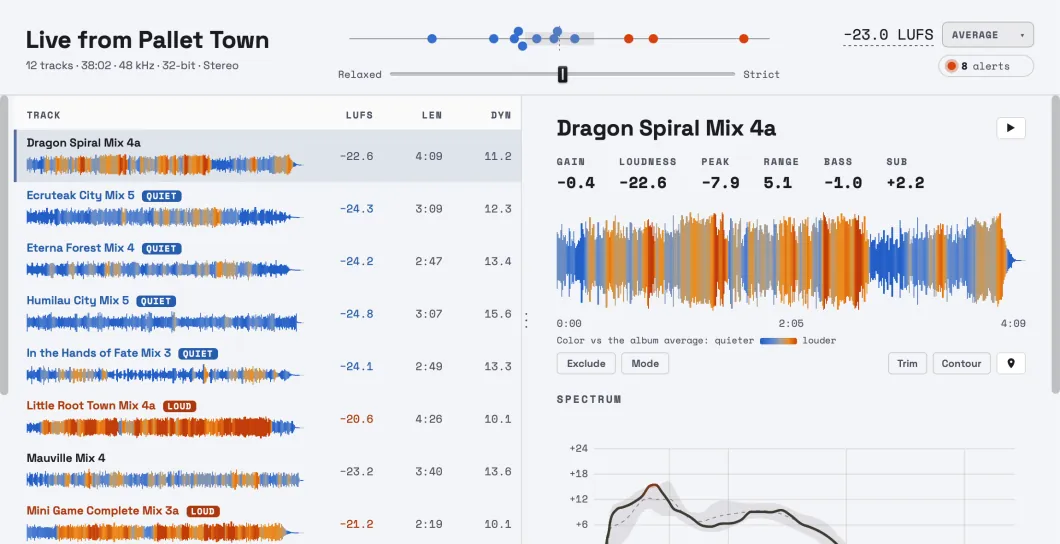
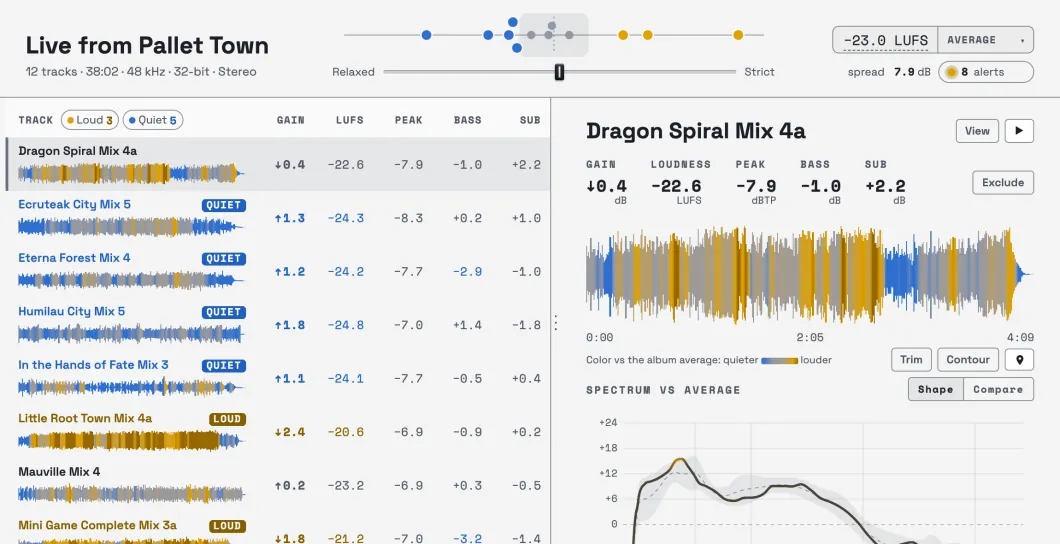
site: 1.0.3 (download links, version, Release Notes, palette screenshots retaken on 1.0.3, Color-blind chip)

diff --git a/releases.html b/releases.html
@@ -49,6 +49,28 @@
     <p class="eyebrow">RELEASE NOTES</p>
     <h1>What's new</h1>
 
+    <h2 id="v1.0.3">1.0.3</h2>
+    <p class="micro legal-date">25 November 2026</p>
+    <p>Hot Spotter 1.0.3 for Mac and Windows. Easier to read, alerts you can tell apart, and a simpler first screen.</p>
+    <ul>
+      <li><strong>A simpler first screen.</strong> Drop an album anywhere on it, or use Analyze Folder… and Analyze Files…. Your audio files are never changed.</li>
+      <li><strong>Recent albums.</strong> Analyze ▾ → Recent lists your last 10 albums. Click one to analyze it again.</li>
+      <li><strong>Easier to read.</strong> Bigger text, plainer type for sentences, bigger click areas on small controls, and tooltips when you move through the app with the keyboard.</li>
+      <li><strong>Alerts you can tell apart.</strong> Clip now has its own square mark, and Loud and Quiet stay round. The Overview gives its counts once, in one line (“2 loud”, “3 quiet”, “2 clip”). Click a count to show only those tracks. If tracks changed since your last mix, the line says how many. Click it to see what changed.</li>
+      <li><strong>Ignored clips stay in view.</strong> They turn gray instead of disappearing, and they stay under Clip with a hollow mark.</li>
+      <li><strong>Color-blind palette.</strong> The Accessible colors were rebuilt for color-blind eyes and renamed Color-blind: amber for loud, blue for quiet, gray for in range, red-orange for clip.</li>
+      <li><strong>Track Details puts the answer first.</strong> The track's suggestion sits right under its name, and each control sits beside what it changes, so the Spectrum sits higher. The Spectrum has its title back, with a Shape | Compare switch.</li>
+      <li><strong>Exclude is an A/B switch.</strong> On the Overview, turn it off to see the album with every track counted, and on again to bring your exclusions back.</li>
+      <li><strong>References compare everything.</strong> Picking a Reference turns on both loudness and Spectrum comparing. Going back to Album average turns both off.</li>
+      <li><strong>Long names read better.</strong> They shorten in the middle, not at the end, so two names that differ only at the end look different. Hover one to see it whole. In a wide window the tracklist grows so names show in full.</li>
+      <li><strong>Mark a value as seen.</strong> Click a colored Gain, Bass or Sub value in Track Details and it stops being highlighted until you quit. Bass and Sub are now colored in the tracklist too.</li>
+      <li><strong>Spot Markers.</strong> Click the Spectrum to mark a frequency. S always marks the timeline. Only a marker's dot opens its note or drags it.</li>
+      <li><strong>What the Readings Mean</strong> shows each reading next to a picture of it in the app.</li>
+      <li>Screen readers get headings and landmarks, and the tracklist is one Tab stop (use the arrow keys inside it). Windows High Contrast keeps the loudness bars, alert dots and Gain arrows.</li>
+      <li>The Spot Report counts tracks with an alert, like the header: a track that runs loud and clips counts once.</li>
+      <li>Fixes: help windows open at their normal size on every screen, the header no longer moves while you rename the album, and the header is calmer.</li>
+    </ul>
+
     <h2 id="v1.0.2">1.0.2</h2>
     <p class="micro legal-date">11 November 2026</p>
     <p>Hot Spotter 1.0.2 for Mac and Windows.</p>

diff --git a/index.html b/index.html
@@ -67,7 +67,7 @@
       "applicationCategory": "MultimediaApplication",
       "applicationSubCategory": "Album loudness meter",
       "operatingSystem": "macOS 13 or later, Windows 10 or 11",
-      "softwareVersion": "1.0.2",
+      "softwareVersion": "1.0.3",
       "downloadUrl": "https://hotspotter.studio/download.html",
       "releaseNotes": "https://hotspotter.studio/releases.html",
       "image": "https://hotspotter.studio/img/og-image.png",
@@ -214,7 +214,7 @@
       <img src="img/app-icon.png" alt="" width="24" height="24" decoding="async">
       <span class="wordmark-name">Hot Spotter</span>
       <!-- version: the latest PUBLIC release (github.com/soundovision/hotspotter/releases), not the working tree; hand-synced with the schema.org softwareVersion above -->
-      <span class="ver">v1.0.2</span>
+      <span class="ver">v1.0.3</span>
     </a>
     <nav class="head-nav" aria-label="Primary">
       <a class="navlink" href="#features">Features</a>
@@ -434,7 +434,7 @@
             <button type="button" class="pal-chip" data-pal="royal" aria-pressed="false"><span class="pal-sw" aria-hidden="true"></span>Royal</button>
             <button type="button" class="pal-chip" data-pal="mono" aria-pressed="false"><span class="pal-sw" aria-hidden="true"></span>Mono</button>
             <button type="button" class="pal-chip" data-pal="quiet" aria-pressed="false"><span class="pal-sw" aria-hidden="true"></span>Slate</button>
-            <button type="button" class="pal-chip" data-pal="cvd" aria-pressed="false"><span class="pal-sw" aria-hidden="true"></span>Accessible</button>
+            <button type="button" class="pal-chip" data-pal="cvd" aria-pressed="false"><span class="pal-sw" aria-hidden="true"></span>Color-blind</button>
           </div>
           <div class="pal-theme" role="group" aria-label="App theme">
             <button type="button" class="pal-chip on" data-theme="dark" aria-pressed="true">Dark</button>
@@ -679,7 +679,9 @@
     else if (pal === 'quiet') stops = light
       ? [[-3.2,[140,146,164]],[3.2,[102,109,127]]]
       : [[-3.2,[70,78,100]],[3.2,[112,122,148]]];
-    else if (pal === 'cvd') { stops = [[-3.2,[47,111,196]],[-1.2,[118,152,203]],[0.3,[186,180,168]],[1.8,[228,155,58]],[3.2,[186,66,14]]]; dim = light ? 0.88 : 1; }
+    else if (pal === 'cvd') stops = light
+      ? [[-3.2,[47,111,208]],[-1.3,[146,152,165]],[0.6,[166,156,141]],[2.2,[224,161,0]],[3.2,[150,104,0]]]
+      : [[-3.2,[74,143,224]],[-1.3,[169,173,182]],[0.6,[190,180,162]],[2.2,[255,198,74]],[3.2,[255,233,181]]];
     else { stops = [[-3.2,[91,155,217]],[-1.3,[88,178,110]],[0.6,[124,191,114]],[2.2,[224,168,60]],[3.2,[216,75,64]]]; dim = light ? 0.88 : 1; }
     var v = Math.max(-3.2, Math.min(3.2, dev));
     var a = stops[0], b = stops[stops.length - 1];

diff --git a/download.html b/download.html
@@ -55,13 +55,13 @@
       <p class="eyebrow">DOWNLOAD</p>
       <h1>Download Hot Spotter</h1>
       <!-- version/date/sizes: the latest PUBLIC release (github.com/soundovision/hotspotter/releases). Hand-synced here; the script at the bottom refreshes them from the GitHub API when it can. -->
-      <p class="dl-ver micro">Version <span data-rel="version">1.0.2</span> · <span data-rel="date">11 November 2026</span></p>
+      <p class="dl-ver micro">Version <span data-rel="version">1.0.3</span> · <span data-rel="date">25 November 2026</span></p>
 
       <ul class="dl-list">
         <li class="dl-row" data-asset="_universal.dmg">
           <svg class="dl-os" viewBox="0 0 24 24" aria-hidden="true"><path fill="currentColor" d="M16.4 12.7c0-2.6 2.1-3.8 2.2-3.9-1.2-1.8-3.1-2-3.7-2-1.6-.2-3.1.9-3.9.9-.8 0-2-.9-3.4-.9-1.7 0-3.3 1-4.2 2.6-1.8 3.1-.5 7.8 1.3 10.3.9 1.2 1.9 2.6 3.2 2.6 1.3-.1 1.8-.8 3.4-.8 1.6 0 2 .8 3.4.8 1.4 0 2.3-1.3 3.1-2.5 1-1.4 1.4-2.8 1.4-2.9-.1 0-2.8-1.1-2.8-4.2zM13.9 5.1c.7-.9 1.2-2.1 1.1-3.3-1 0-2.3.7-3 1.6-.7.8-1.3 2-1.1 3.2 1.1.1 2.3-.6 3-1.5z"/></svg>
           <div>
-            <a class="dl-link" href="https://github.com/soundovision/hotspotter/releases/download/v1.0.2/HotSpotter_1.0.2_universal.dmg" rel="noopener">Download for macOS</a>
+            <a class="dl-link" href="https://github.com/soundovision/hotspotter/releases/download/v1.0.3/HotSpotter_1.0.3_universal.dmg" rel="noopener">Download for macOS</a>
             <span class="dl-size micro">(<span data-rel="size">11.8 MB</span>)</span>
             <p class="dl-sub">Universal app for Apple Silicon and Intel · macOS 13 Ventura or later</p>
           </div>
@@ -69,7 +69,7 @@
         <li class="dl-row" data-asset="_x64-setup.exe">
           <svg class="dl-os" viewBox="0 0 24 24" aria-hidden="true"><path fill="currentColor" d="M3 5.5 11 4.4v7.2H3V5.5zm9-1.3L21 3v8.6h-9V4.2zM3 12.4h8v7.2L3 18.5v-6.1zm9 0h9V21l-9-1.3v-7.3z"/></svg>
           <div>
-            <a class="dl-link" href="https://github.com/soundovision/hotspotter/releases/download/v1.0.2/HotSpotter_1.0.2_x64-setup.exe" rel="noopener">Download for Windows</a>
+            <a class="dl-link" href="https://github.com/soundovision/hotspotter/releases/download/v1.0.3/HotSpotter_1.0.3_x64-setup.exe" rel="noopener">Download for Windows</a>
             <span class="dl-size micro">(<span data-rel="size">4.8 MB</span>)</span>
             <p class="dl-sub">64-bit installer for Windows 10 or 11</p>
           </div>
